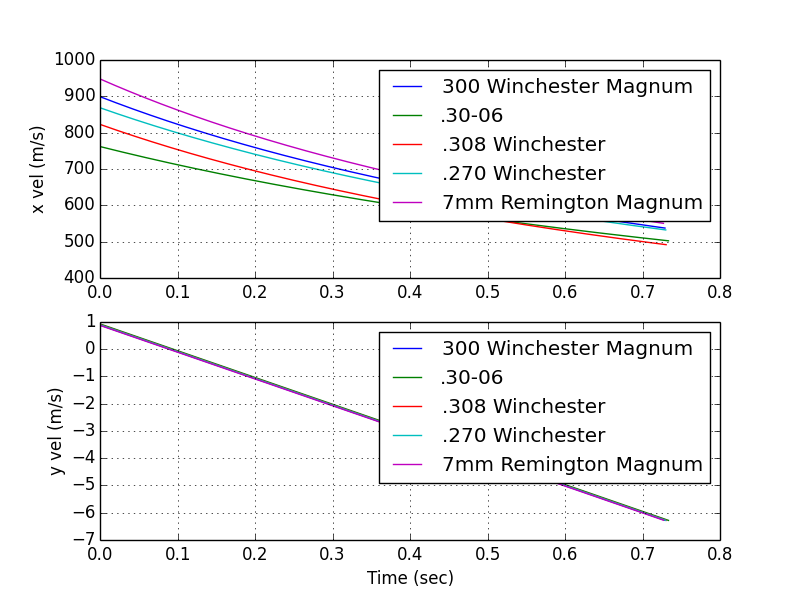
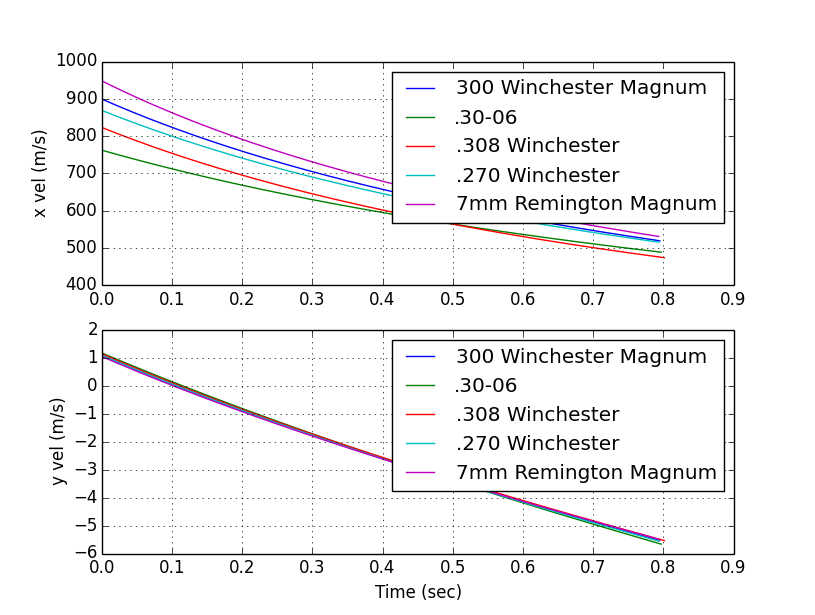
Main change was a bug in the drag calculation -- the direction of drag was incorrect.

diff --git a/ballistics.py b/ballistics.py
@@ -62,14 +62,17 @@ class Ballistics( object ) :
         self.setLaunchAngle(X[0])
         return X[0]
 
+    def endCond(self,pos,vel) :
+        return pos[-1][1] < -2.0 # go until 2m drop
+
     def solve(self) :
         
         pos = [array([0,-self.sightHeight])]
         vel = [self.v0]
         t = [0]
 
-        while pos[-1][1] > -2.0 :  # go until 2m drop
-
+        while not self.endCond(pos,vel) :
+        
             a = self.g + self.dragAccel(vel[-1])
 
             pos.append(pos[-1] + vel[-1]*self.dt + .5*a*self.dt**2)
@@ -119,6 +122,20 @@ class Ballistics( object ) :
 
         savefig("Energy.png")
 
+        figure(4)
+        subplot(211)
+        plot(self.t,self.pos[:,0])
+        ylabel('x position (m)')
+        grid('on')
+
+        subplot(212)
+        plot(self.t,self.pos[:,1])
+        ylabel('y position (m)')
+        grid('on')
+        xlabel('Time (sec)')
+        
+
+
         # figure(4);
         # # 1./60 deg = 1 MOA
         # idx = self.pos[:,0] > 100
@@ -135,7 +152,11 @@ class Ballistics( object ) :
         Return drag acceleration 
         Fd = .5*rho*v**2*Cd*A = m*a
         """
-        return -.5*self.rho*v**2*self.Cd*self.A/self.m
+
+        vmag = norm(v)
+        theta = arctan2(v[1],v[0])
+        dragMag = .5*self.rho*vmag**2*self.Cd*self.A/self.m
+        return -dragMag*array([cos(theta),sin(theta)])
 
     def setLaunchAngle(self,angle) :
         self.theta0 = angle
@@ -166,7 +187,8 @@ class Ballistics( object ) :
 
         return self.Cd
 
-    def calcAirDensity(self,Tfarenheight,h_ft) :
+    @staticmethod
+    def calcAirDensity(Tfarenheight,h_ft) :
         """
         See: http://en.wikipedia.org/wiki/Density_of_air
 
@@ -174,7 +196,7 @@ class Ballistics( object ) :
         
         # convert T to Kelvin
         T = (Tfarenheight-32)*5./9 + 273.15
-        h = h_ft*self.ft2m
+        h = h_ft*Ballistics.ft2m
 
         p0 = 101.325 
         T0 = 288.15
@@ -267,7 +289,8 @@ matter what.
 
 """
 
-if __name__ == '__main__' :
+#if __name__ == '__main__' :
+def bulletComparisons() :
     
     bullets = [#Bullet22LR(),
                Bullet300WinMag(),
@@ -282,7 +305,7 @@ if __name__ == '__main__' :
 
     legtxt = []
     for b in bullets :
-        b.zeroSight(100*Ballistics.yrd2m)
+        b.zeroSight(150*Ballistics.yrd2m)
         b.solve()
         b.plot()
         legtxt.append(b.name)
@@ -290,3 +313,45 @@ if __name__ == '__main__' :
     legend()
 
     show()
+
+def tempComparison() :
+    tempF = linspace(15,60,5)
+
+    b = Bullet270Winchester()
+    b.rho = b.calcAirDensity(50,0)
+    b.zeroSight(100*Ballistics.yrd2m)
+    basename = b.name
+    for T in tempF :
+        b.rho = b.calcAirDensity(T,0)
+        b.name = basename + ' T = ' + str(T) + ' F'
+        b.solve()
+        b.plot()
+
+def altComparison() :
+    alt = linspace(5000,14000,5)
+
+    b = Bullet270Winchester()
+    b.rho = b.calcAirDensity(50,0)
+    b.zeroSight(100*Ballistics.yrd2m)
+    basename = b.name
+    for a in alt :
+        b.rho = b.calcAirDensity(50,a)
+        b.name = basename + ' MSL = ' + str(a) + ' ft'
+        b.solve()
+        b.plot()
+
+def straightDown() :
+    class BulletDown( Bullet270Winchester ) :
+        def __init__(self) :
+            super(BulletDown,self).__init__()
+            self.setLaunchAngle(-pi/2)
+        
+        def endCond(self, pos, vel) :
+            return pos[-1][1] < -5000
+
+    b = BulletDown()
+
+    b.solve()
+    b.plot()
+
+    return b
